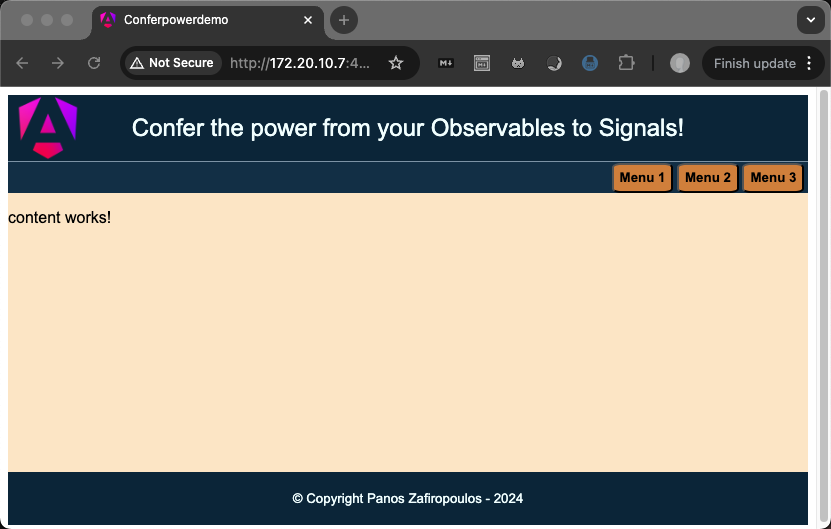
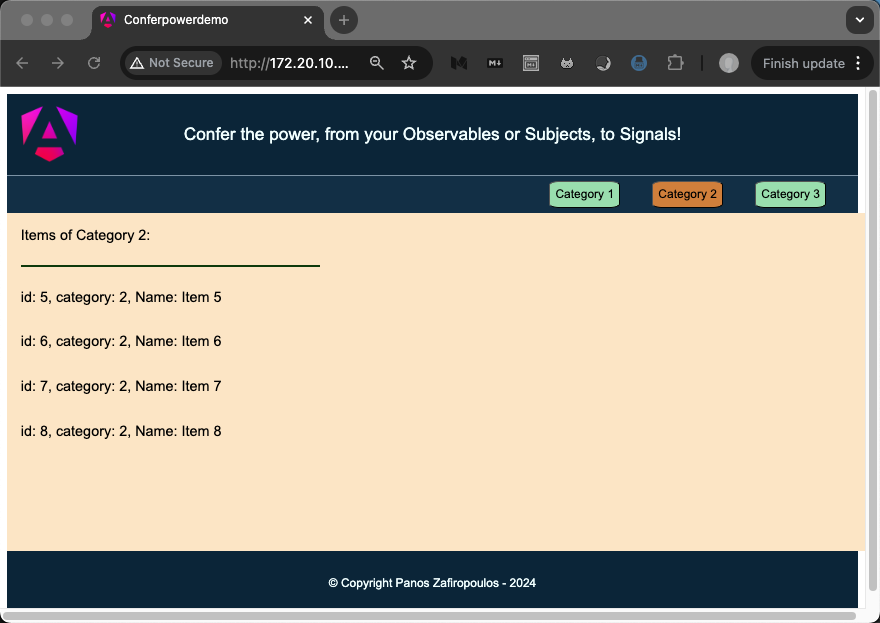
Corrections and Improvements

diff --git a/src/app/menu/menu.component.ts b/src/app/menu/menu.component.ts
@@ -1,5 +1,6 @@
 import { Component, OnInit } from '@angular/core';
 import { DataService, ICategory } from '../data.service';
+import { CommonModule } from '@angular/common';
 
 export interface ISiteMenu {
   siteMenuId: number;
@@ -10,7 +11,9 @@ export interface ISiteMenu {
 @Component({
   selector: 'app-menu',
   standalone: true,
-  imports: [],
+  imports: [
+    CommonModule,
+  ],
   templateUrl: './menu.component.html',
   styleUrl: './menu.component.scss'
 })
@@ -20,7 +23,7 @@ export class MenuComponent implements OnInit{
   
   componentName = this.constructor.name.replace('_', '');
   navMenuItems1: ICategory[] = [];
-
+  selectedItem: number | null = null;
 
   ngOnInit(): void {
     this.dataService.getCategories().subscribe((categories: ICategory[]) => {
@@ -31,9 +34,10 @@ export class MenuComponent implements OnInit{
 
 
 
-  itemSiteMenuClicked(menuItem: ICategory): void {
-    // console.log(">===>> "+'Menu Item clicked: '+ menuItem.categoryName )
+  itemSiteMenuClicked(menuItem: ICategory, i: number): void {
+    // console.log(">===>> "+'Menu Item clicked: ' + i + " - " + menuItem.categoryName )
     this.dataService.setCategoryId(menuItem.categoryId);
+    this.selectedItem = i;
   }
 
 }

diff --git a/src/app/content/content.component.ts b/src/app/content/content.component.ts
@@ -12,11 +12,11 @@ import { Subscription } from 'rxjs';
 export class ContentComponent {
 
   constructor(private dataService: DataService) {
-    let categoryId: number = 0;
+
     this.itemsSubscription = this.dataService.getCategoryId().subscribe({
-      next: (catId: number) => {categoryId = catId;
+      next: (catId: number) => {this.categoryId = catId;
         // console.log(">===>>" + this.componentName + " CategoryId: " + categoryId);
-        if (categoryId > 0) this.getCategoryItems(categoryId);
+        if (this.categoryId > 0) this.getCategoryItems(this.categoryId);
       },
       error: (error) => {
         console.log(">===>>" + this.componentName  + ' - ' + error +  " - " + 'Error getting Items.');
@@ -25,7 +25,8 @@ export class ContentComponent {
   } 
 
   componentName = this.constructor.name.replace('_', '');
-  contentHeader = 'The Items:'
+  contentHeader = 'Items of Category ';
+  categoryId: number = 0;
   items!: IItem[];
   itemsSubscription!: Subscription;
 

diff --git a/src/app/menu/menu.component.html b/src/app/menu/menu.component.html
@@ -4,7 +4,10 @@
   <div class="sitemenu">
 
     @for (item of navMenuItems1; track $index) {
-    <button (click)="itemSiteMenuClicked(item)">
+    <button 
+    [ngClass]="{ 'selected-item': selectedItem === $index }"
+    (click)="itemSiteMenuClicked(item, $index)"
+    >
       {{ item.categoryName }}
     </button>
     }

diff --git a/src/app/menu/menu.component.scss b/src/app/menu/menu.component.scss
@@ -22,5 +22,10 @@
   width: max-content;
   background-color:var(--btn-back-color1);
   border-radius: 15%;
-  font-weight:bold;
+  // font-weight:bold;
+}
+
+.selected-item {
+  background-color: var(--btn-back-color2) !important; /* Example selected background color */
+  // color: white; /* Example selected text color */
 }

diff --git a/src/styles.scss b/src/styles.scss
@@ -8,7 +8,8 @@
     --back-color2: rgb(9, 48, 69);          // menu
     --back-color3: bisque ;                 // content
 
-    --btn-back-color1: rgb(214, 125, 52);   // menu buttons
+    --btn-back-color1: rgb(149, 220, 174);   // menu buttons
+    --btn-back-color2: rgb(214, 125, 52);
 
   }
 

diff --git a/src/app/content/content.component.html b/src/app/content/content.component.html
@@ -1,5 +1,5 @@
 <div class="main-cont">
-  <p>{{contentHeader}}</p>
+  <p>{{contentHeader}} {{(categoryId == 0) ? '' : categoryId}}: </p>
   <hr />
   @if (items && items.length>0) 
     { @for (item of items; track $index) {

diff --git a/src/app/content/content.component.scss b/src/app/content/content.component.scss
@@ -4,7 +4,8 @@
     display:flex;
     flex-direction: column;
     background-color: var(--back-color3);
-    color:black
+    color:black;
+    padding-left: 15px;
 }
 
 hr {

diff --git a/README.md b/README.md
@@ -4,7 +4,13 @@
 
 ![screen-shoot](/src/assets/images/confer-power.png)
 
-It uses the following 4 components:
+It uses:
+
+The DataService
+
+and 
+
+The following 4 components:
 
 * HeaderComponent
 * MenuComponent
